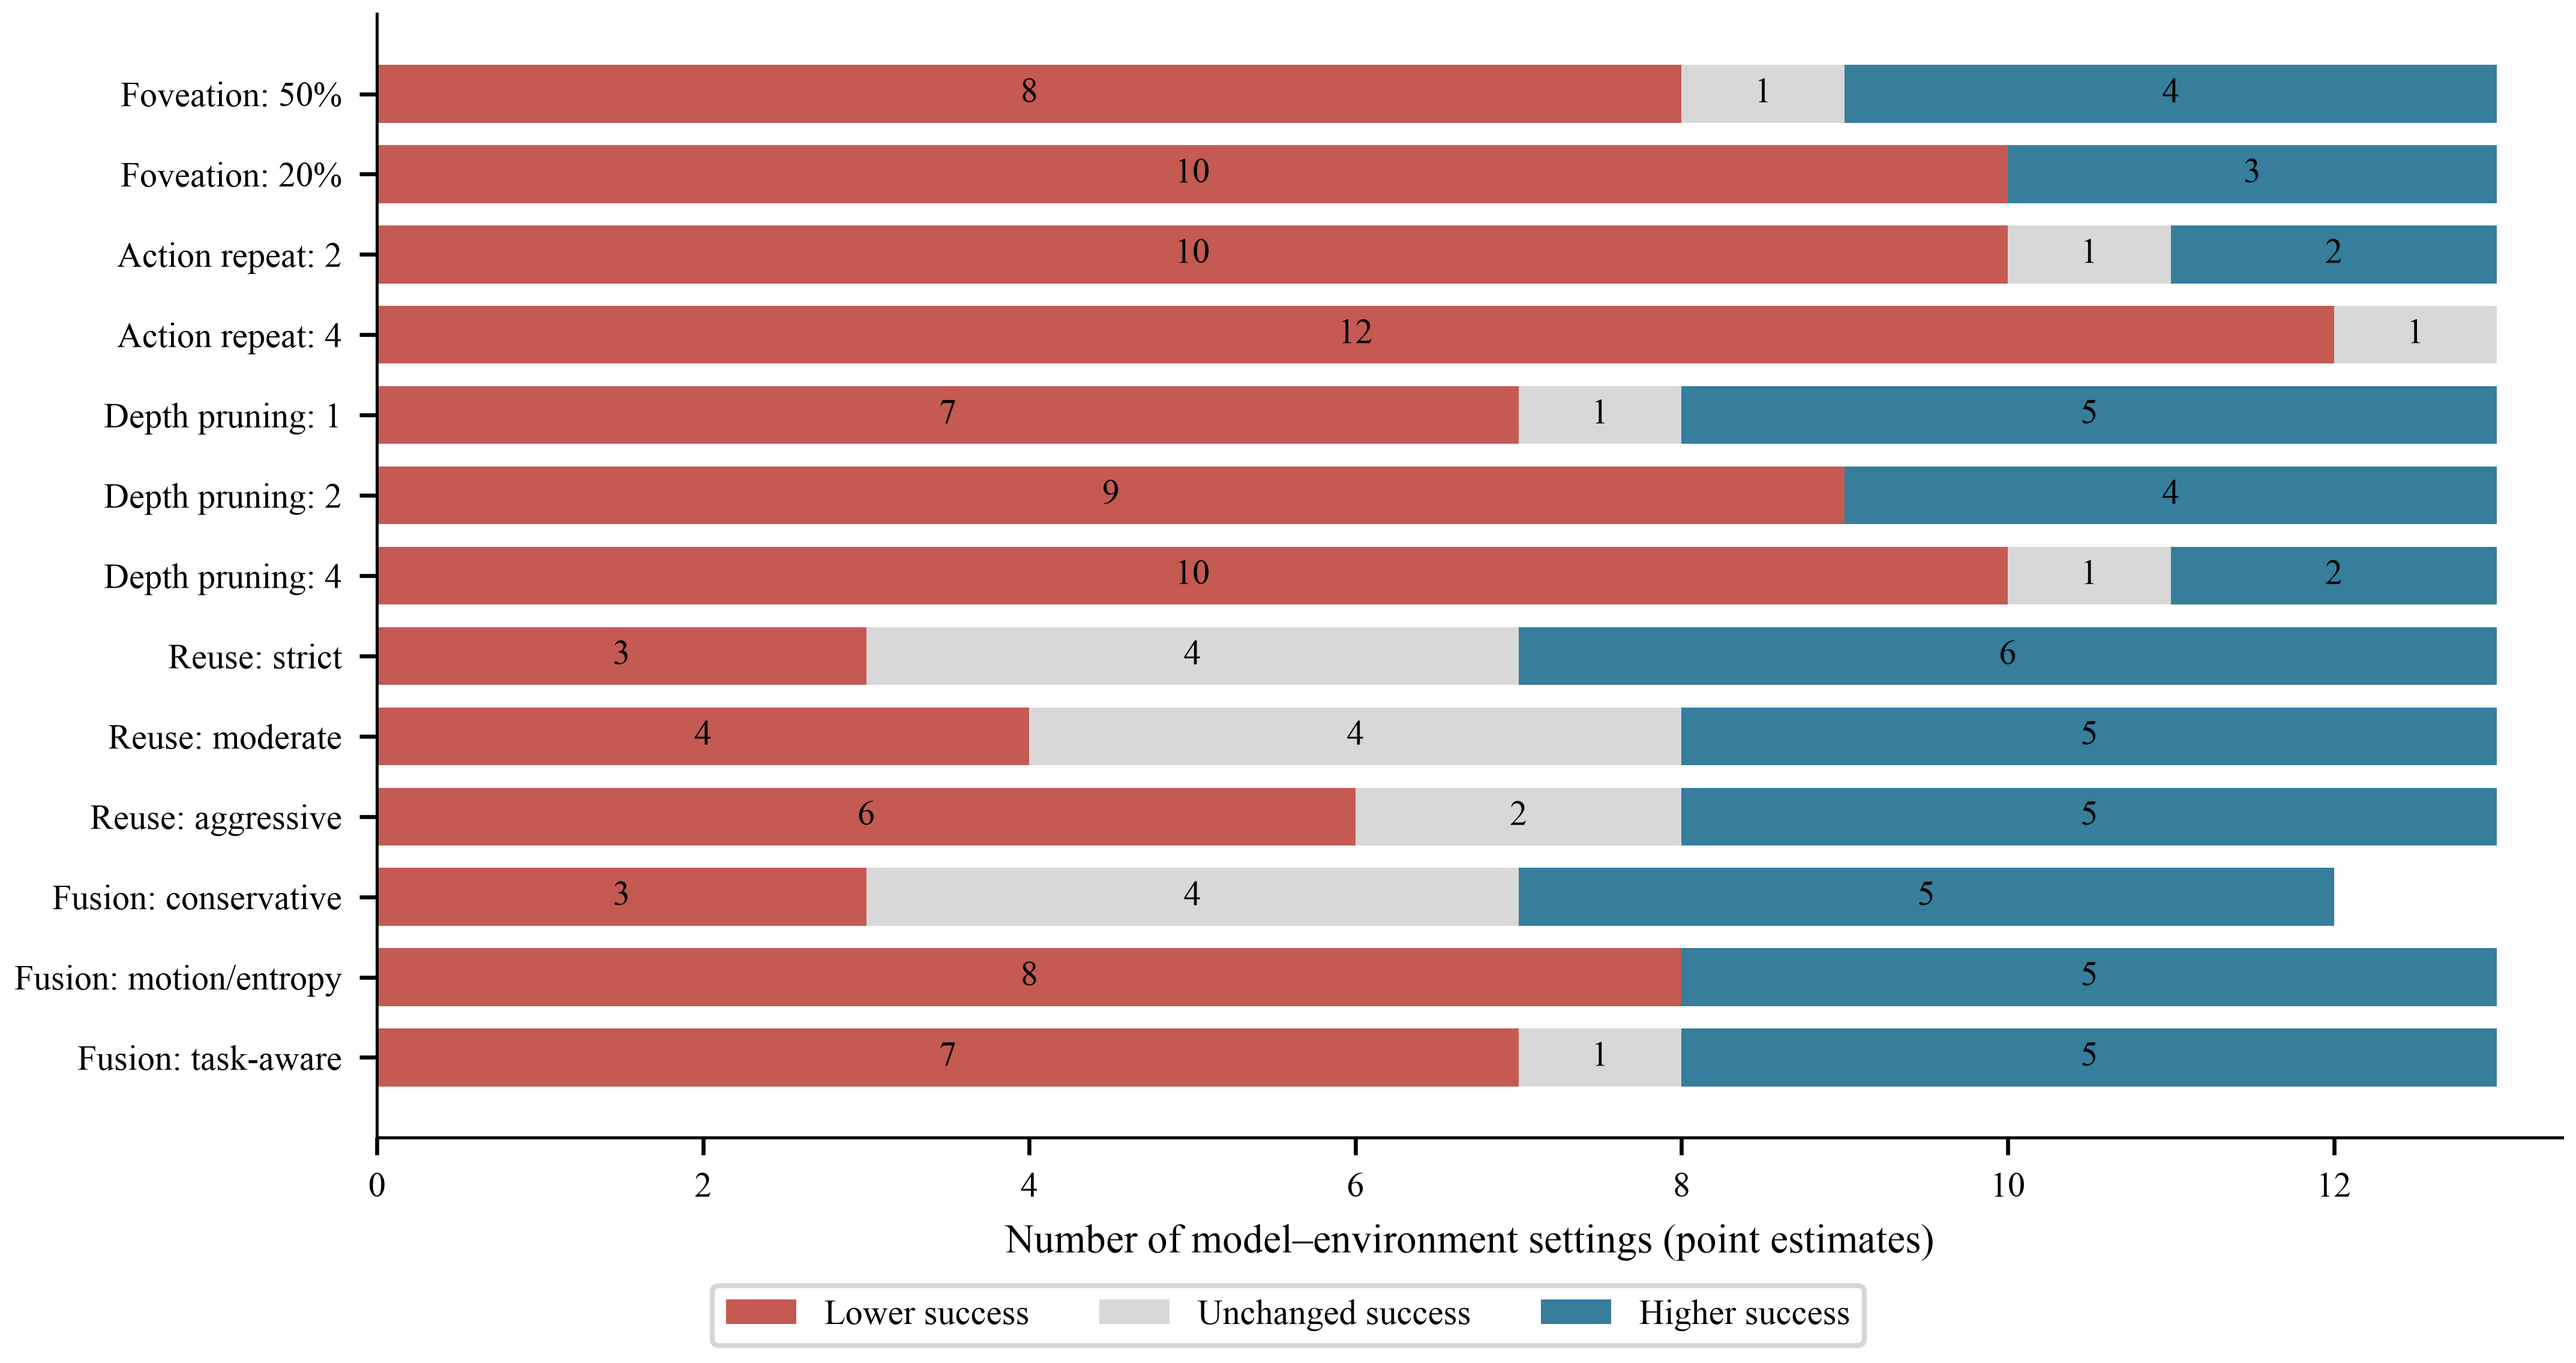
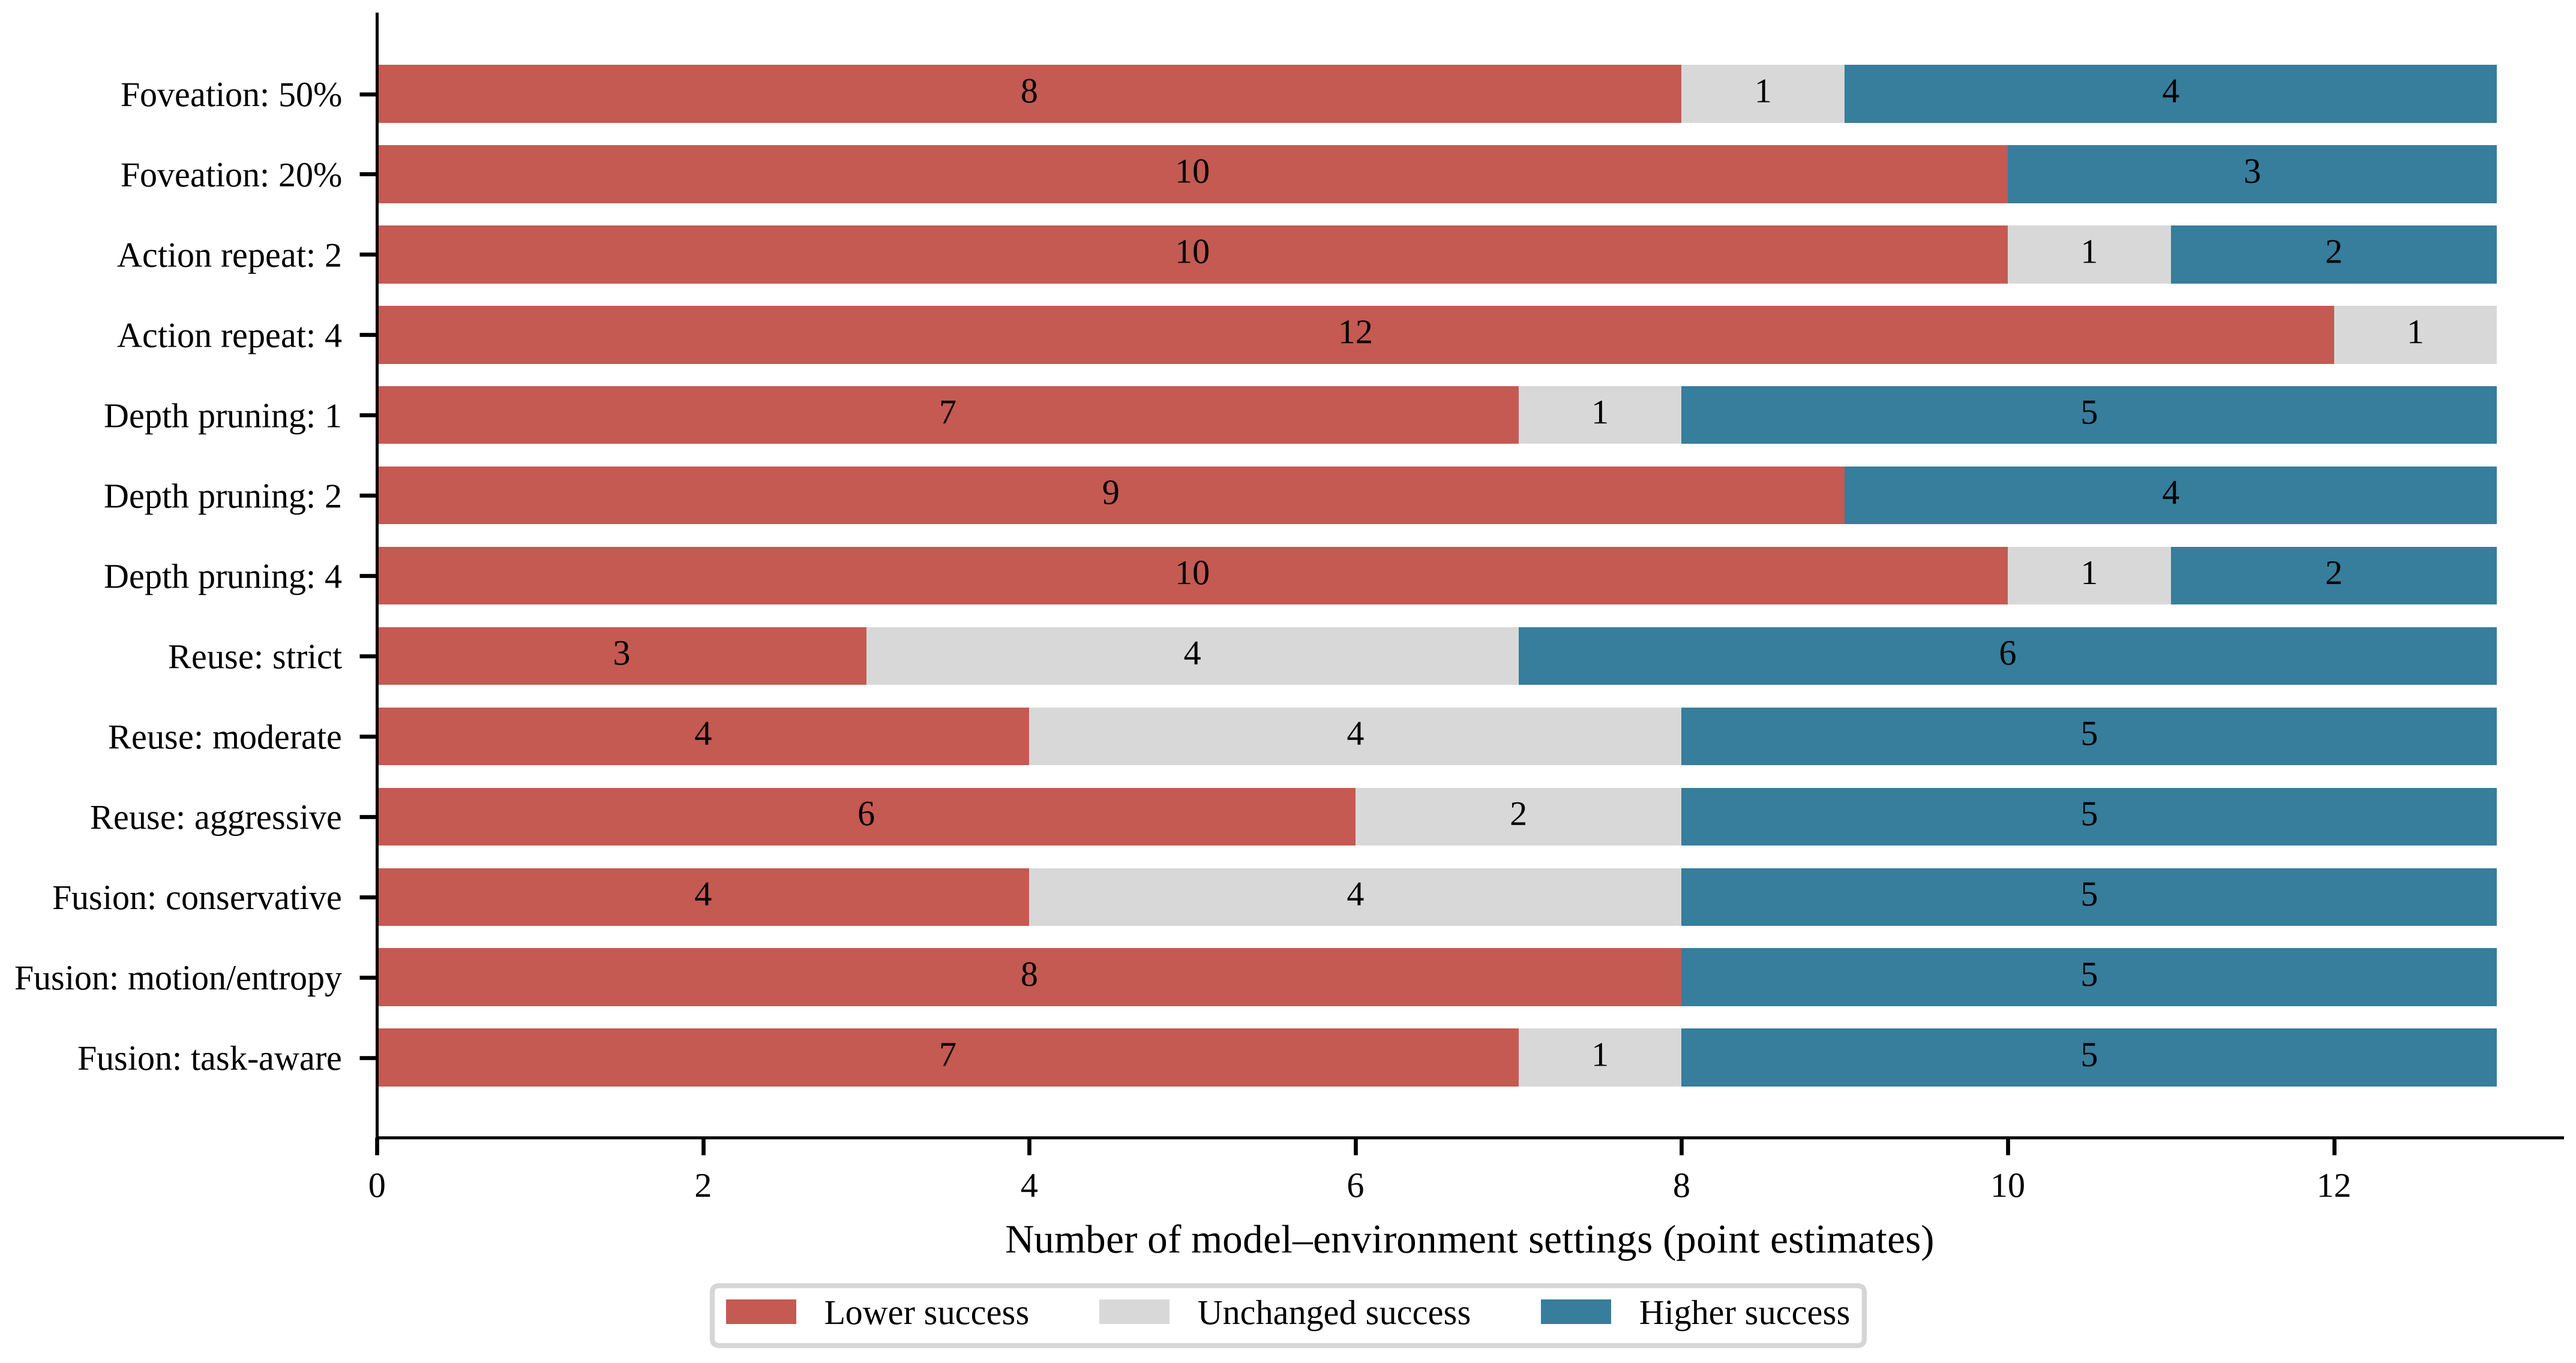
cross_setting_consistency: include the completed OpenVLA LIBERO conservative cell
The Long run (45 of 100) is pooled with the three per-episode suites so
the conservative-fusion row counts 13 combinations like the others
(4 lower, 4 unchanged, 5 higher). The mentor's consistency() is unchanged;
only the cell is marked complete. Caption updated accordingly.

Claude-Session: https://claude.ai/code/session_011USoCwMtkSq1wKhwTPjNT9

diff --git a/experiments/datas/plots/paper_figures/scripts/plot_cross_setting_consistency_complete.py b/experiments/datas/plots/paper_figures/scripts/plot_cross_setting_consistency_complete.py
@@ -1,0 +1,46 @@
+"""cross_setting_consistency with all 13 combinations in every row.
+
+The catalog build excluded openvla_libero/temporal_fusion_conservative_adaptive
+because its Long suite had not been run. That run has since completed
+(OpenVLA_Libero_Long.json, 45 of 100). Its per-episode file is not yet
+available, so this script pools the three per-episode suites with the Long
+summary to obtain the aggregate success, marks the cell complete, and
+redraws the figure with the mentor's consistency() unchanged.
+Times New Roman is unavailable off macOS, so the render uses Liberation
+Serif, which is metric compatible."""
+import json
+from pathlib import Path
+import matplotlib.pyplot as plt
+from matplotlib import font_manager
+import common
+
+
+def style_fallback():
+    for p in font_manager.findSystemFonts():
+        if 'LiberationSerif' in p:
+            font_manager.fontManager.addfont(p)
+    plt.rcParams.update({'font.family': 'serif', 'font.serif': ['Liberation Serif'], 'font.size': 8,
+                         'axes.titlesize': 9, 'axes.labelsize': 8, 'xtick.labelsize': 7, 'ytick.labelsize': 7,
+                         'legend.fontsize': 7, 'pdf.fonttype': 42, 'ps.fonttype': 42, 'mathtext.fontset': 'stix',
+                         'axes.spines.top': False, 'axes.spines.right': False, 'axes.linewidth': .6,
+                         'lines.linewidth': 1.1, 'lines.markersize': 4, 'savefig.dpi': 600, 'figure.dpi': 140,
+                         'axes.axisbelow': True})
+
+
+common.style = style_fallback
+
+groups, agg, suites, audit, allrows = common.data()
+m, c = 'openvla_libero', 'temporal_fusion_conservative_adaptive'
+long = json.loads((common.ROOT.parent / 'OpenVLA_Libero_Long.json').read_text())
+assert long['config_name'] == c and long['task_suite_name'] == 'libero_10'
+parts = [suites[(m, c, s)] for s in ('libero_goal', 'libero_object', 'libero_spatial')]
+succ = sum(p['successes'] for p in parts) + long['successes']
+n = sum(p['n'] for p in parts) + long['episodes']
+agg[(m, c)]['successes'] = succ
+agg[(m, c)]['n'] = n
+agg[(m, c)]['success'] = 100 * succ / n
+agg[(m, c)]['complete'] = True
+print(f'{m}/{c}: {succ}/{n} = {100*succ/n:.2f}% vs original {agg[(m,"original")]["success"]:.2f}%')
+
+common.consistency('cross_setting_consistency')
+print('written cross_setting_consistency.pdf/.png')

diff --git a/experiments/paper/figresults.tex b/experiments/paper/figresults.tex
@@ -28,11 +28,10 @@
   combinations, with LIBERO suites pooled per backbone, whose success is
   lower, unchanged or higher than dense. Lower and higher count any nonzero
   change, and unchanged includes the cells of RQ4 whose gates never fired.
-  Conservative fusion counts 12 combinations because the OpenVLA LIBERO
-  cell was incomplete when the figure was drawn, and the completed cell (45
-  of 100 on Long) is reported in Section~IV-B without a paired test. Under
-  the paired test, six of the 285 setting and combination cells raise
-  success significantly, on three combinations.}
+  The OpenVLA LIBERO conservative-fusion cell enters with its pooled
+  success over the four suites, the Long suite from its run summary, and
+  without a paired test. Under the paired test, six of the 285 setting and
+  combination cells raise success significantly, on three combinations.}
   \label{fig:consistency}
 \end{figure*}
 
